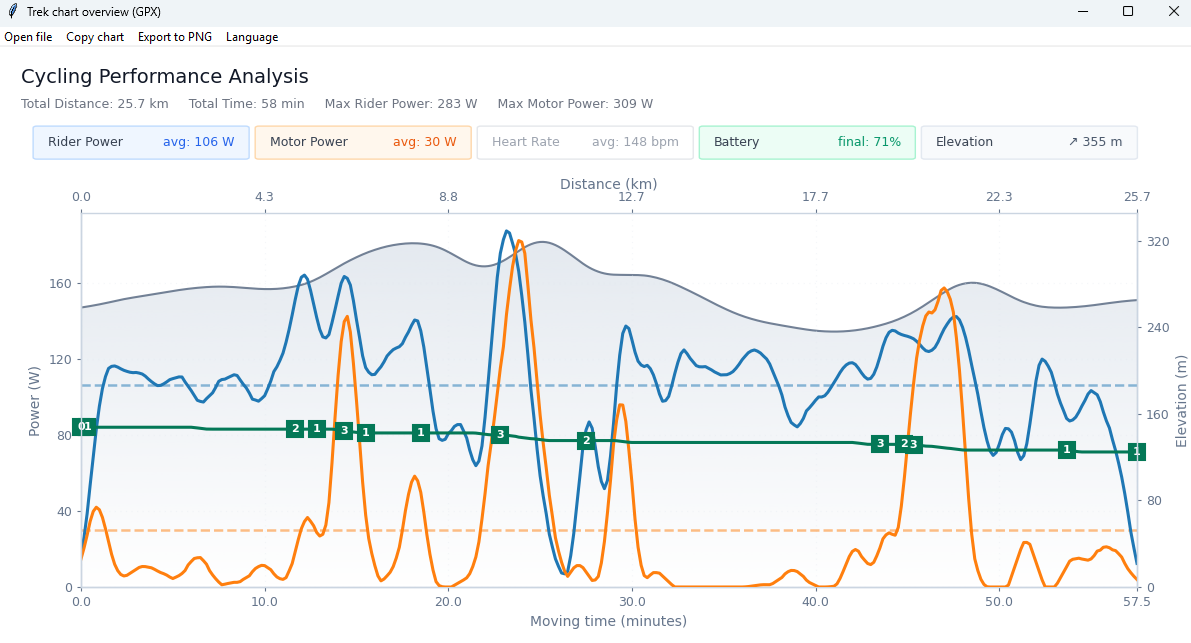
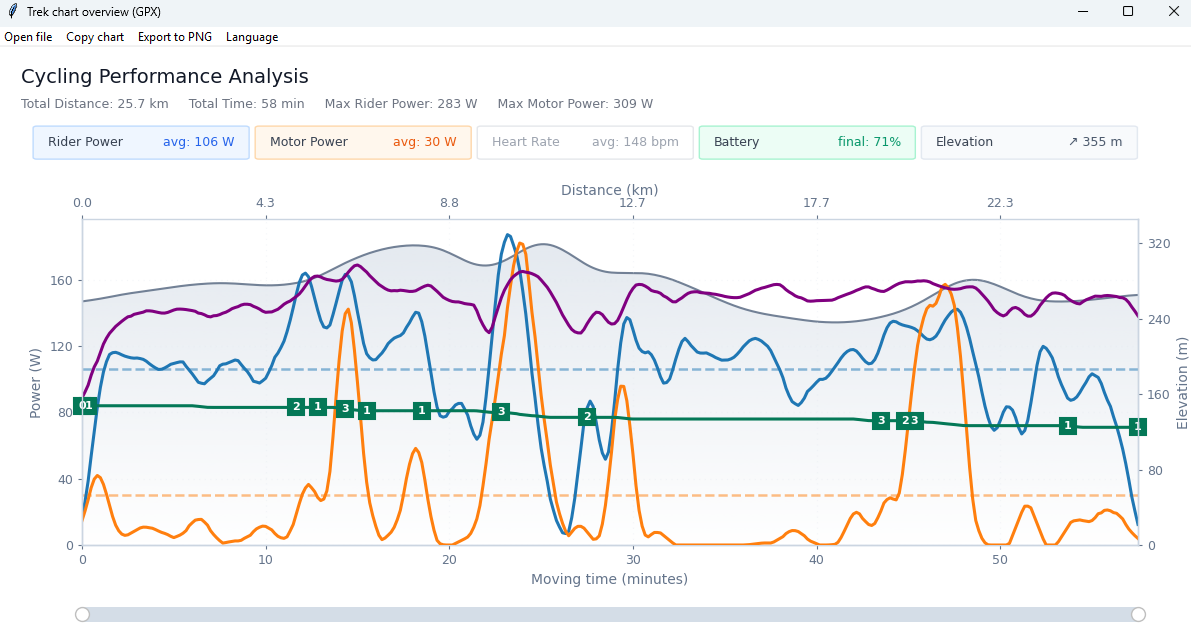
feat: add zoom range slider for timeline navigation
Add bottom range slider to zoom in/out and pan across the ride timeline
Improve chart exploration for long rides without losing context

diff --git a/grafic.py b/grafic.py
@@ -29,6 +29,7 @@ from matplotlib.patches import FancyBboxPatch
 from matplotlib.colors import to_rgba
 from matplotlib.ticker import MaxNLocator
 from matplotlib.offsetbox import AnnotationBbox, TextArea, VPacker
+from matplotlib.widgets import RangeSlider
 import ctypes
 from ctypes import wintypes
 
@@ -745,13 +746,34 @@ def create_figure(data, t):
     x_max = float(np.nanmax(t_min)) if len(t_min) else 0.0
     tick_step_min = 10.0
     x_end = x_max if x_max > 0 else tick_step_min
-    base_ticks = np.arange(0.0, x_end + 1e-9, tick_step_min)
-    minute_ticks = base_ticks.tolist()
-    if not minute_ticks or abs(minute_ticks[-1] - x_end) > 1e-6:
-        minute_ticks.append(x_end)
-    minute_ticks = np.array(minute_ticks, dtype=float)
     ax1.set_xlim(0.0, x_end)
-    ax1.set_xticks(minute_ticks)
+
+    def update_time_ticks(x0, x1):
+        try:
+            x0 = float(x0)
+            x1 = float(x1)
+        except (TypeError, ValueError):
+            return
+        if not np.isfinite(x0) or not np.isfinite(x1) or x1 <= x0:
+            return
+
+        span = x1 - x0
+        preferred_steps = np.array([0.5, 1.0, 2.0, 5.0, 10.0, 15.0, 30.0, 60.0], dtype=float)
+        target = span / 6.0
+        step = preferred_steps[-1]
+        for s in preferred_steps:
+            if s >= target:
+                step = float(s)
+                break
+
+        start = np.ceil(x0 / step) * step
+        ticks = np.arange(start, x1 + 1e-9, step, dtype=float)
+        if ticks.size < 2:
+            ticks = np.array([x0, x1], dtype=float)
+
+        ax1.set_xticks(ticks)
+
+    update_time_ticks(0.0, x_end)
     ax1.margins(x=0)
 
     ax1.yaxis.set_major_locator(MaxNLocator(nbins=5))
@@ -782,13 +804,23 @@ def create_figure(data, t):
     # --- top axis in km ---
     ax_top = ax1.twiny()
     ax_top.set_xlim(ax1.get_xlim())
-    seconds_ticks = minute_ticks * 60.0
+    seconds_ticks = np.array(ax1.get_xticks(), dtype=float) * 60.0
     km_labels = np.interp(seconds_ticks, data["binned_t"], binned_dist)
-    ax_top.set_xticks(minute_ticks)
+    ax_top.set_xticks(ax1.get_xticks())
     ax_top.set_xticklabels([f"{k:.1f}" for k in km_labels])
     ax_top.set_xlabel(t("figure.axis.distance"), labelpad=2)
     style_axes(ax_top, hide_bottom=True)
     ax_top.margins(x=0)
+
+    def sync_top_axis(_=None):
+        ax_top.set_xlim(ax1.get_xlim())
+        xticks = np.array(ax1.get_xticks(), dtype=float)
+        ax_top.set_xticks(xticks)
+        seconds_ticks = xticks * 60.0
+        km_labels = np.interp(seconds_ticks, data["binned_t"], binned_dist)
+        ax_top.set_xticklabels([f"{k:.1f}" for k in km_labels])
+
+    ax1.callbacks.connect("xlim_changed", sync_top_axis)
 
     # --- hover tooltip (details) ---
     hover_line = ax1.axvline(
@@ -1134,7 +1166,80 @@ def create_figure(data, t):
     # Margins: leave some space top/bottom
     # Leave enough space for the header/pills so they don't overlap the top X axis.
     plot_top = max(0.1, pill_y - 0.09)
-    fig.subplots_adjust(left=0.07, right=0.95, top=plot_top, bottom=0.10)
+    fig.subplots_adjust(left=0.07, right=0.95, top=plot_top, bottom=0.18)
+
+    # --- bottom range slider for time zoom ---
+    if x_end > 0:
+        slider_left = 0.07
+        slider_right = 0.95
+        slider_bottom = 0.04
+        slider_height = 0.05
+        ax_slider = fig.add_axes([slider_left, slider_bottom, slider_right - slider_left, slider_height])
+        ax_slider.set_facecolor("#ffffff")
+        ax_slider.set_yticks([])
+        ax_slider.xaxis.set_ticks_position("top")
+
+        if x_end <= 60:
+            slider_step = 1.0
+        elif x_end <= 180:
+            slider_step = 5.0
+        else:
+            slider_step = 10.0
+        slider_ticks = np.arange(0.0, x_end + 1e-9, slider_step, dtype=float)
+        if len(slider_ticks) == 0 or abs(slider_ticks[-1] - x_end) > 1e-6:
+            slider_ticks = np.append(slider_ticks, x_end)
+        ax_slider.set_xticks(slider_ticks)
+        ax_slider.tick_params(axis="x", colors=axis_color, labelsize=7, length=2, width=0.8, pad=2)
+        for spine in ax_slider.spines.values():
+            spine.set_color(spine_color)
+            spine.set_linewidth(1.0)
+
+        time_slider = RangeSlider(ax_slider, "", 0.0, x_end, valinit=(0.0, x_end))
+        time_slider.label.set_visible(False)
+        time_slider.valtext.set_visible(False)
+        time_slider.track.set_facecolor("#f1f5f9")
+        time_slider.poly.set_facecolor("#cbd5e1")
+        time_slider.poly.set_alpha(0.75)
+        try:
+            for handle in getattr(time_slider, "_handles", []) or []:
+                handle.set_color("#64748b")
+                handle.set_linewidth(6.0)
+        except Exception:
+            pass
+
+        def on_time_slider(val):
+            try:
+                x0, x1 = float(val[0]), float(val[1])
+            except Exception:
+                return
+            if not np.isfinite(x0) or not np.isfinite(x1):
+                return
+            if x1 - x0 <= 1e-6:
+                return
+            ax1.set_xlim(x0, x1)
+            fig.canvas.draw_idle()
+
+        time_slider.on_changed(on_time_slider)
+
+        slider_drag_state = {"active": False}
+
+        def on_slider_press(event):
+            if event.inaxes == ax_slider:
+                slider_drag_state["active"] = True
+
+        def on_slider_release(event):
+            if not slider_drag_state["active"]:
+                return
+            slider_drag_state["active"] = False
+            x0, x1 = ax1.get_xlim()
+            update_time_ticks(x0, x1)
+            sync_top_axis()
+            fig.canvas.draw_idle()
+
+        fig.canvas.mpl_connect("button_press_event", on_slider_press)
+        fig.canvas.mpl_connect("button_release_event", on_slider_release)
+        fig._time_slider = time_slider
+        fig._time_slider_ax = ax_slider
 
     # IMPORTANT: do not call fig.tight_layout() here
 

diff --git a/README.md b/README.md
@@ -16,6 +16,7 @@ A desktop GPX dashboard for Trek rides. Compare **rider vs motor power** with sm
 - 🖱 **Toggle visibility:** click any pill to show/hide its series (great to declutter)
 - 🧼 **Focus mode on hover:** hover a pill to dim everything else and highlight that metric
 - 🧭 **Hover tooltip:** move the mouse over the chart to see time, distance, elevation and values at that point
+- 🔎 **Zoom & pan:** use the bottom range slider to zoom in/out and navigate along the ride timeline
 - ⛰ **Elevation profile** as a subtle gradient background layer (with its own right Y axis)
 - ⏱ **Moving time** (stops removed) on the main X-axis
 - 🛣 **Distance (km)** on the top X-axis
@@ -84,6 +85,7 @@ Steps:
 1. Pick a `.gpx` file exported from the Trek app
 2. The chart renders automatically
 3. Use the top menu to:
+4. Use the **bottom range slider** to zoom in/out and inspect specific segments
    - Open another file
    - Copy chart (Windows clipboard)
    - Export PNG
@@ -105,6 +107,11 @@ Steps:
 
 **Hover tooltip**
 ![Tooltip](./grafic03tooltip.png)
+
+--
+
+**Zoom range slider** 
+![Zoom slider](./grafic04zoom.png)
 
 ---
 
@@ -130,6 +137,10 @@ The last selected language is saved to `last_language.json` (typically **gitigno
 ├─ README.md                 # this file
 ├─ en.json                   # english translation
 ├─ ca.json                   # catalan translation
+├─ grafic01.png              # optional screenshot
+├─ grafic02atenuat.png       # optional screenshot
+├─ grafic03tooltip.png       # optional screenshot
+├─ grafic04zoom.png          # optional screenshot (range slider)
 └─ last_language.json        # auto-generated, remembers last selected language
 ```
 
